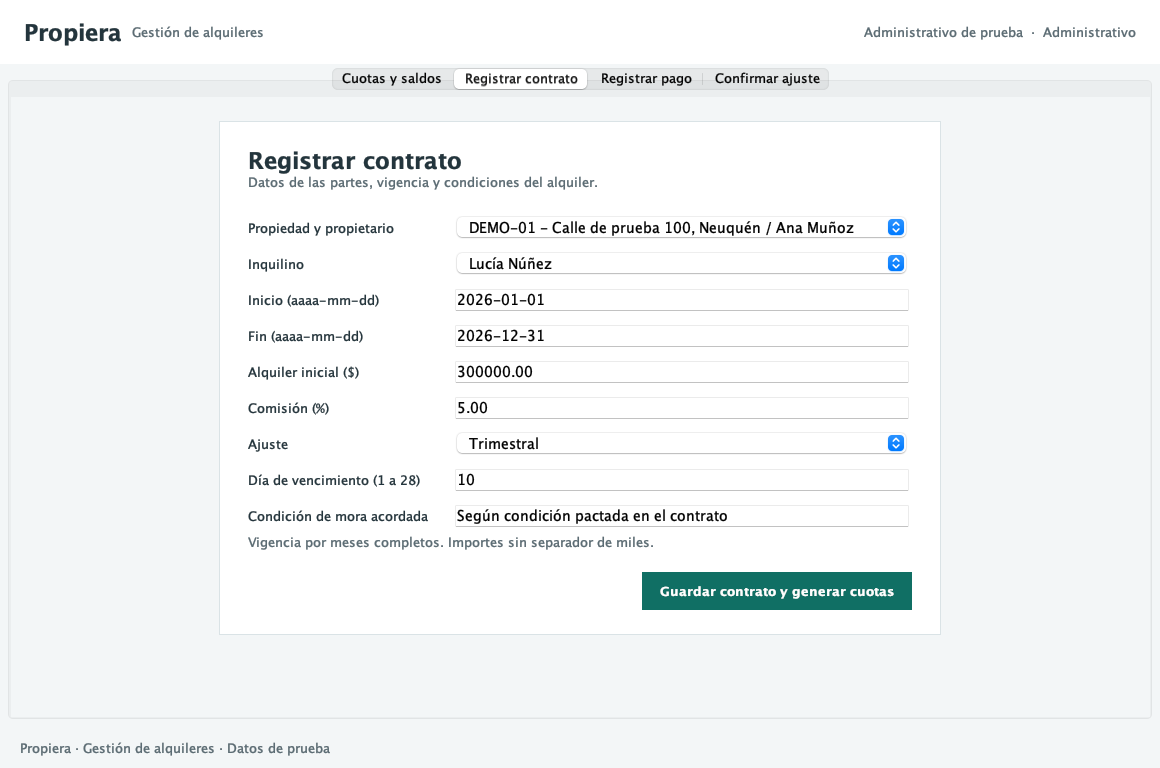
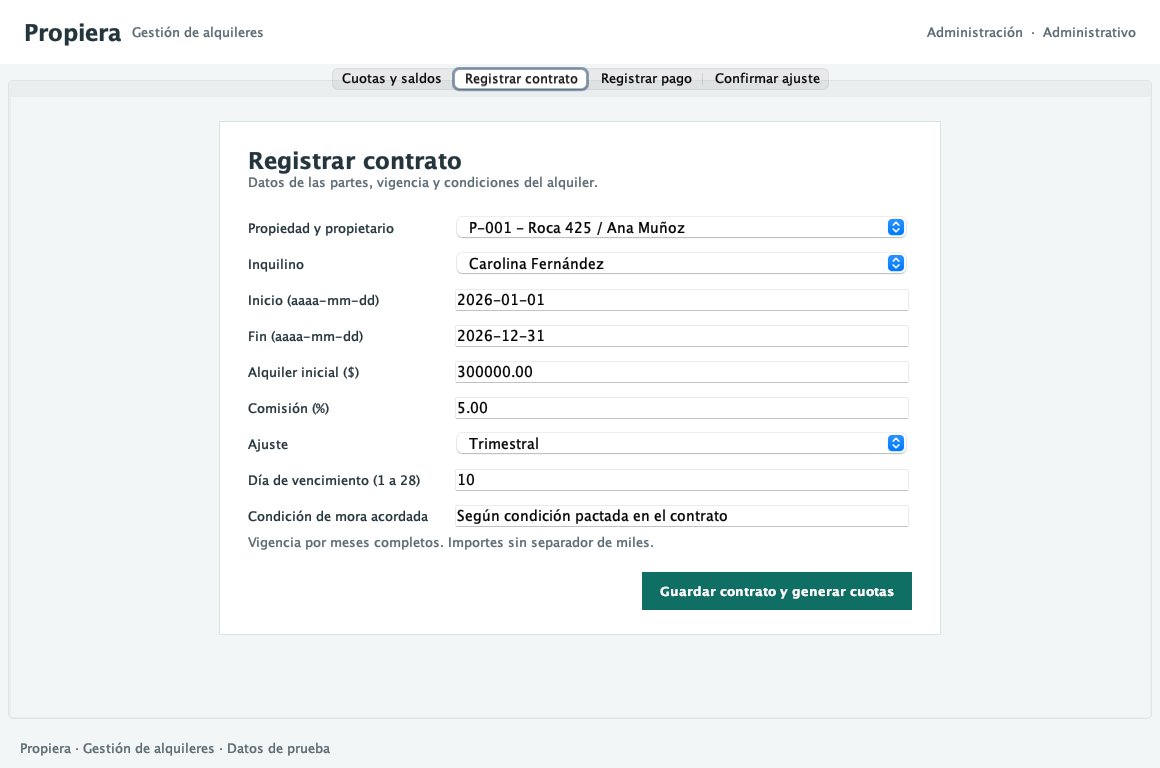
Agregar filtro por propiedad y datos de presentación

Changed region(s): [[0.4034, 0.2812, 0.7448, 0.375], [0.3724, 0.0625, 0.4966, 0.125], [0.7448, 0.0312, 0.869, 0.0625]]

diff --git a/src/propiera/vista/PrincipalVista.java b/src/propiera/vista/PrincipalVista.java
@@ -17,6 +17,8 @@ import javax.swing.JScrollPane;
 import javax.swing.JTabbedPane;
 import javax.swing.JTable;
 import javax.swing.ListSelectionModel;
+import javax.swing.SwingUtilities;
+import javax.swing.table.TableRowSorter;
 import propiera.modelo.Cuota;
 import propiera.modelo.Usuario;
 
@@ -24,6 +26,8 @@ public class PrincipalVista extends JFrame {
     private final JTabbedPane pestanas = new JTabbedPane();
     private final TablaCuotasModelo modelo = new TablaCuotasModelo();
     private final JTable tabla = new JTable(modelo);
+    private final TableRowSorter<TablaCuotasModelo> ordenador = new TableRowSorter<>(modelo);
+    private final FiltroPropiedades filtro = new FiltroPropiedades(modelo, ordenador);
     private final FormularioContrato contrato = new FormularioContrato();
     private final FormularioPago pago = new FormularioPago();
     private final FormularioAjuste ajuste = new FormularioAjuste();
@@ -63,17 +67,18 @@ public class PrincipalVista extends JFrame {
         tabla.getTableHeader().setFont(tabla.getFont().deriveFont(Font.BOLD, 13f));
         tabla.getTableHeader().setPreferredSize(new Dimension(0, 38));
         tabla.getTableHeader().setReorderingAllowed(false);
-        tabla.setAutoCreateRowSorter(true);
+        tabla.setRowSorter(ordenador);
+        ordenador.addRowSorterListener(evento -> actualizarResumen());
         tabla.setDefaultRenderer(String.class, new CeldaRenderizador());
         tabla.setDefaultRenderer(Long.class, new CeldaRenderizador());
         tabla.setDefaultRenderer(java.math.BigDecimal.class, new ImporteRenderizador());
-        int[] anchos = {65, 85, 150, 150, 150, 205, 175};
+        int[] anchos = {55, 65, 290, 120, 120, 190, 145};
         for (int columna = 0; columna < anchos.length; columna++) {
             tabla.getColumnModel().getColumn(columna).setPreferredWidth(anchos[columna]);
         }
         tabla.setSelectionMode(ListSelectionModel.SINGLE_SELECTION);
         tabla.getSelectionModel().addListSelectionListener(evento -> actualizarAcciones());
-        modelo.addTableModelListener(evento -> actualizarResumen());
+        modelo.addTableModelListener(evento -> SwingUtilities.invokeLater(this::actualizarResumen));
         JPanel cuotas = new JPanel(new BorderLayout(10, 10));
         cuotas.setBackground(EstiloVista.FONDO);
         cuotas.setBorder(BorderFactory.createEmptyBorder(22, 24, 16, 24));
@@ -91,7 +96,11 @@ public class PrincipalVista extends JFrame {
             acciones.add(javax.swing.Box.createHorizontalStrut(12));
             acciones.add(confirmarAjuste);
         }
-        encabezado.add(acciones, BorderLayout.SOUTH);
+        JPanel herramientas = new JPanel(new BorderLayout(0, 10));
+        herramientas.setOpaque(false);
+        herramientas.add(filtro, BorderLayout.NORTH);
+        herramientas.add(acciones, BorderLayout.SOUTH);
+        encabezado.add(herramientas, BorderLayout.SOUTH);
         cuotas.add(encabezado, BorderLayout.NORTH);
         JScrollPane listado = new JScrollPane(tabla);
         listado.setBorder(BorderFactory.createLineBorder(EstiloVista.BORDE));
@@ -131,15 +140,15 @@ public class PrincipalVista extends JFrame {
     private void actualizarResumen() {
         int conSaldo = 0;
         int pendientes = 0;
-        for (int fila = 0; fila < modelo.getRowCount(); fila++) {
-            Cuota cuota = modelo.cuota(fila);
+        for (int fila = 0; fila < tabla.getRowCount(); fila++) {
+            Cuota cuota = modelo.cuota(tabla.convertRowIndexToModel(fila));
             if (cuota.importe() == null) {
                 pendientes++;
             } else if (cuota.permiteCobro()) {
                 conSaldo++;
             }
         }
-        resumen.setText(modelo.getRowCount() + " cuotas  ·  " + conSaldo
+        resumen.setText(tabla.getRowCount() + " de " + modelo.getRowCount() + " cuotas  ·  " + conSaldo
             + " con saldo  ·  " + pendientes + " pendientes de ajuste");
         actualizarAcciones();
     }

diff --git a/tests/propiera/PruebasFiltro.java b/tests/propiera/PruebasFiltro.java
@@ -1,0 +1,76 @@
+package propiera;
+
+import java.math.BigDecimal;
+import java.time.LocalDate;
+import java.util.List;
+import javax.swing.JComboBox;
+import javax.swing.JTable;
+import javax.swing.SwingUtilities;
+import javax.swing.table.TableRowSorter;
+import propiera.modelo.Cuota;
+import propiera.vista.FiltroPropiedades;
+import propiera.vista.TablaCuotasModelo;
+
+public class PruebasFiltro {
+    private static final TablaCuotasModelo modelo = new TablaCuotasModelo();
+    private static final JTable tabla = new JTable(modelo);
+    private static final TableRowSorter<TablaCuotasModelo> ordenador = new TableRowSorter<>(modelo);
+    private static JComboBox<?> selector;
+    private static int total;
+
+    private static void comprobar(String caso, boolean correcto) {
+        if (!correcto) throw new AssertionError(caso);
+        total++;
+        System.out.println("PASS " + caso);
+    }
+
+    private static Cuota cuota(long id, String propiedad, String importe) {
+        BigDecimal monto = importe == null ? null : new BigDecimal(importe);
+        return new Cuota(id, id, propiedad, LocalDate.of(2026,1,1),
+            LocalDate.of(2026,1,10), monto, monto);
+    }
+
+    public static void main(String[] args) throws Exception {
+        Cuota primera = cuota(1, "P-001 · Roca 425", "900.00");
+        Cuota segunda = cuota(2, "P-010 · Roca 425", "1000.00");
+        Cuota pendiente = cuota(3, primera.propiedad(), null);
+        SwingUtilities.invokeAndWait(() -> {
+            tabla.setRowSorter(ordenador);
+            FiltroPropiedades filtro = new FiltroPropiedades(modelo, ordenador);
+            selector = (JComboBox<?>) filtro.getComponent(1);
+            comprobar("FI01 consulta vacía", tabla.getRowCount() == 0 && selector.getItemCount() == 1);
+            modelo.actualizar(List.of(primera, segunda, pendiente));
+        });
+        SwingUtilities.invokeAndWait(() -> {
+            comprobar("FI02 todas las cuotas y opciones sin duplicados", tabla.getRowCount() == 3 && selector.getItemCount() == 3);
+            selector.setSelectedItem(primera.propiedad());
+            comprobar("FI03 coincidencia exacta de propiedad", tabla.getRowCount() == 2
+                && tabla.getValueAt(0, 0).equals(1L) && tabla.getValueAt(1, 0).equals(3L));
+            comprobar("FI04 conserva las cuotas pendientes de ajuste", tabla.getValueAt(1, 5) == null);
+            ordenador.toggleSortOrder(5);
+            ordenador.toggleSortOrder(5);
+            comprobar("FI05 orden numérico dentro del filtro", tabla.getValueAt(0, 0).equals(1L));
+            tabla.setRowSelectionInterval(0, 0);
+            selector.setSelectedItem(segunda.propiedad());
+            comprobar("FI06 cambia de propiedad sin operar sobre una fila oculta", tabla.getRowCount() == 1
+                && tabla.getValueAt(0, 0).equals(2L) && tabla.getSelectedRow() == -1);
+            modelo.actualizar(List.of(primera, segunda));
+        });
+        SwingUtilities.invokeAndWait(() -> {
+            comprobar("FI07 conserva el filtro al actualizar", selector.getSelectedItem().equals(segunda.propiedad())
+                && tabla.getRowCount() == 1 && tabla.getValueAt(0, 0).equals(2L));
+            selector.setSelectedIndex(0);
+            comprobar("FI08 vuelve a mostrar todas", tabla.getRowCount() == 2);
+            selector.setSelectedItem(segunda.propiedad());
+            modelo.actualizar(List.of(primera));
+        });
+        SwingUtilities.invokeAndWait(() -> {
+            comprobar("FI09 propiedad retirada vuelve a todas", selector.getSelectedIndex() == 0
+                && tabla.getRowCount() == 1 && tabla.getValueAt(0, 0).equals(1L));
+            modelo.actualizar(List.of());
+        });
+        SwingUtilities.invokeAndWait(() -> comprobar("FI10 recarga vacía", tabla.getRowCount() == 0
+            && selector.getItemCount() == 1));
+        System.out.println("RESULTADO: " + total + " verificaciones de filtro aprobadas.");
+    }
+}

diff --git a/src/propiera/vista/FiltroPropiedades.java b/src/propiera/vista/FiltroPropiedades.java
@@ -1,0 +1,72 @@
+package propiera.vista;
+
+import java.awt.FlowLayout;
+import java.awt.Dimension;
+import java.util.TreeSet;
+import javax.swing.JComboBox;
+import javax.swing.JLabel;
+import javax.swing.JPanel;
+import javax.swing.RowFilter;
+import javax.swing.SwingUtilities;
+import javax.swing.table.TableRowSorter;
+
+public class FiltroPropiedades extends JPanel {
+    private static final String TODAS = "Todas las propiedades";
+    private final JComboBox<String> propiedades = new JComboBox<>();
+    private final TablaCuotasModelo modelo;
+    private final TableRowSorter<TablaCuotasModelo> ordenador;
+    private boolean cargando;
+
+    public FiltroPropiedades(TablaCuotasModelo modelo, TableRowSorter<TablaCuotasModelo> ordenador) {
+        super(new FlowLayout(FlowLayout.LEFT, 0, 0));
+        this.modelo = modelo;
+        this.ordenador = ordenador;
+        setOpaque(false);
+        JLabel etiqueta = EstiloVista.ayuda("Propiedad  ");
+        etiqueta.setLabelFor(propiedades);
+        propiedades.setPreferredSize(new Dimension(420, 30));
+        propiedades.setMaximumRowCount(10);
+        add(etiqueta);
+        add(propiedades);
+        propiedades.addActionListener(evento -> {
+            if (!cargando) {
+                aplicar();
+            }
+        });
+        // JTable debe terminar de actualizar sus filas antes de volver a filtrar.
+        modelo.addTableModelListener(evento -> SwingUtilities.invokeLater(this::actualizarPropiedades));
+        actualizarPropiedades();
+    }
+
+    private void actualizarPropiedades() {
+        String anterior = (String) propiedades.getSelectedItem();
+        TreeSet<String> opciones = new TreeSet<>();
+        for (int fila = 0; fila < modelo.getRowCount(); fila++) {
+            opciones.add(modelo.cuota(fila).propiedad());
+        }
+        cargando = true;
+        propiedades.removeAllItems();
+        propiedades.addItem(TODAS);
+        opciones.forEach(propiedades::addItem);
+        if (anterior != null && opciones.contains(anterior)) {
+            propiedades.setSelectedItem(anterior);
+        }
+        cargando = false;
+        aplicar();
+    }
+
+    private void aplicar() {
+        String elegida = (String) propiedades.getSelectedItem();
+        propiedades.setToolTipText(elegida);
+        if (TODAS.equals(elegida)) {
+            ordenador.setRowFilter(null);
+        } else {
+            ordenador.setRowFilter(new RowFilter<TablaCuotasModelo, Integer>() {
+                @Override
+                public boolean include(Entry<? extends TablaCuotasModelo, ? extends Integer> fila) {
+                    return elegida.equals(fila.getStringValue(2));
+                }
+            });
+        }
+    }
+}

diff --git a/src/propiera/persistencia/AlquilerDao.java b/src/propiera/persistencia/AlquilerDao.java
@@ -43,12 +43,12 @@ public class AlquilerDao {
 
     public List<Cuota> cuotas() throws SQLException {
         String sql = """
-            SELECT q.id, co.id, p.codigo, q.periodo, q.vencimiento, q.importe,
+            SELECT q.id, co.id, CONCAT(p.codigo, ' · ', p.direccion), q.periodo, q.vencimiento, q.importe,
                    q.importe - COALESCE(SUM(pa.capital), 0) AS saldo
             FROM cuota q JOIN contrato co ON co.id = q.contrato_id
             JOIN propiedad p ON p.id = co.propiedad_id
             LEFT JOIN pago pa ON pa.cuota_id = q.id
-            GROUP BY q.id, co.id, p.codigo, q.periodo, q.vencimiento, q.importe
+            GROUP BY q.id, co.id, p.codigo, p.direccion, q.periodo, q.vencimiento, q.importe
             ORDER BY q.periodo, q.id
             """;
         List<Cuota> cuotas = new ArrayList<>();

diff --git a/README.md b/README.md
@@ -37,6 +37,8 @@ antes de confirmar. Los totales de cobros y gastos se agregan por separado.
 ## Interfaz
 
 La consulta muestra la cantidad de cuotas con saldo y pendientes de ajuste.
+El selector Propiedad permite consultar un inmueble o todas las propiedades.
+El resumen corresponde a las filas visibles y el filtro se conserva al actualizar.
 Para registrar un cobro o confirmar un ajuste se selecciona una fila de la tabla.
 Los importes se presentan con punto de miles y coma decimal, y se ordenan
 numéricamente. En los formularios se ingresan sin separador de miles.
@@ -91,6 +93,12 @@ El servicio utiliza el puerto local 33316 y crea la base propiera_ap4.
 Esperar a que termine la inicialización. Si ya existe MySQL, crear una base
 vacía utf8mb4 y cargar sql/01_esquema.sql y sql/02_datos_demo.sql.
 No cargar esos archivos en una base con información real.
+
+Para recorrer la interfaz con movimientos ya cargados, ejecutar después
+sql/05_escenario_presentacion.sql, únicamente si la base todavía no tiene contratos.
+Incluye tres propiedades ficticias de Neuquén (Roca 425, Mitre 680 y San Martín 1240),
+36 cuotas, un pago parcial, un pago completo y un tramo de ajuste confirmado.
+Las pruebas automáticas de negocio utilizan sólo 01 y 02, sin este escenario.
 
 ## Ejecutar
 
@@ -147,6 +155,7 @@ java -cp 'build/classes:lib/*' propiera.Pruebas
 java -Djava.awt.headless=true -cp 'build/classes:lib/*' propiera.PruebasSwing
 java -cp 'build/classes:lib/*' propiera.PruebasPoo
 java -Djava.awt.headless=true -cp 'build/classes:lib/*' propiera.PruebasAjuste
+java -Djava.awt.headless=true -cp 'build/classes:lib/*' propiera.PruebasFiltro
 ```
 
 En Windows el separador del classpath es punto y coma. En macOS se puede usar
@@ -165,6 +174,8 @@ PruebasAjuste se ejecuta después de Pruebas, una sola vez por base ficticia.
 Comprueba tramos trimestrales, semestrales y finales incompletos, permisos,
 concurrencia, cobros posteriores y reversión ante un error SQL. Para simular
 ese error crea una restricción CHECK temporal y la retira al terminar.
+PruebasFiltro no requiere MySQL. Comprueba coincidencias exactas, orden numérico,
+recarga, conservación del filtro y actualización de una consulta vacía.
 
 sql/03_consultas.sql contiene consultas de saldos, cobros y liquidaciones.
 sql/04_abm_seguro.sql realiza un ABM sobre un registro temporal y revierte
